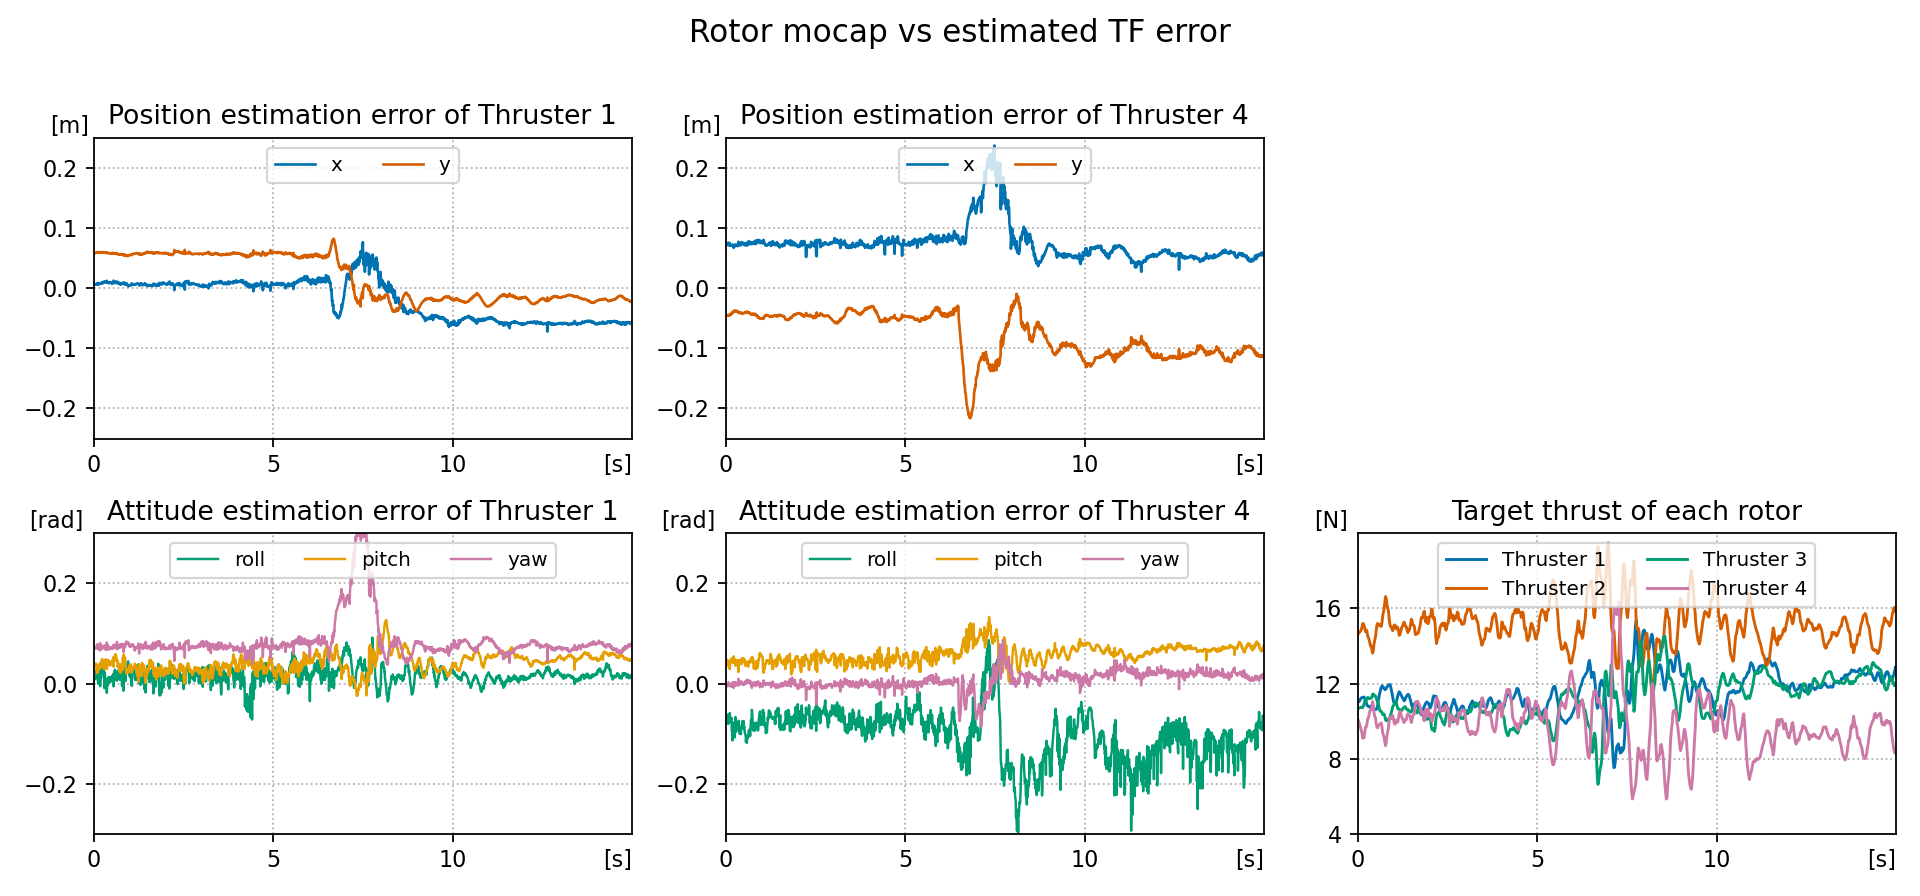
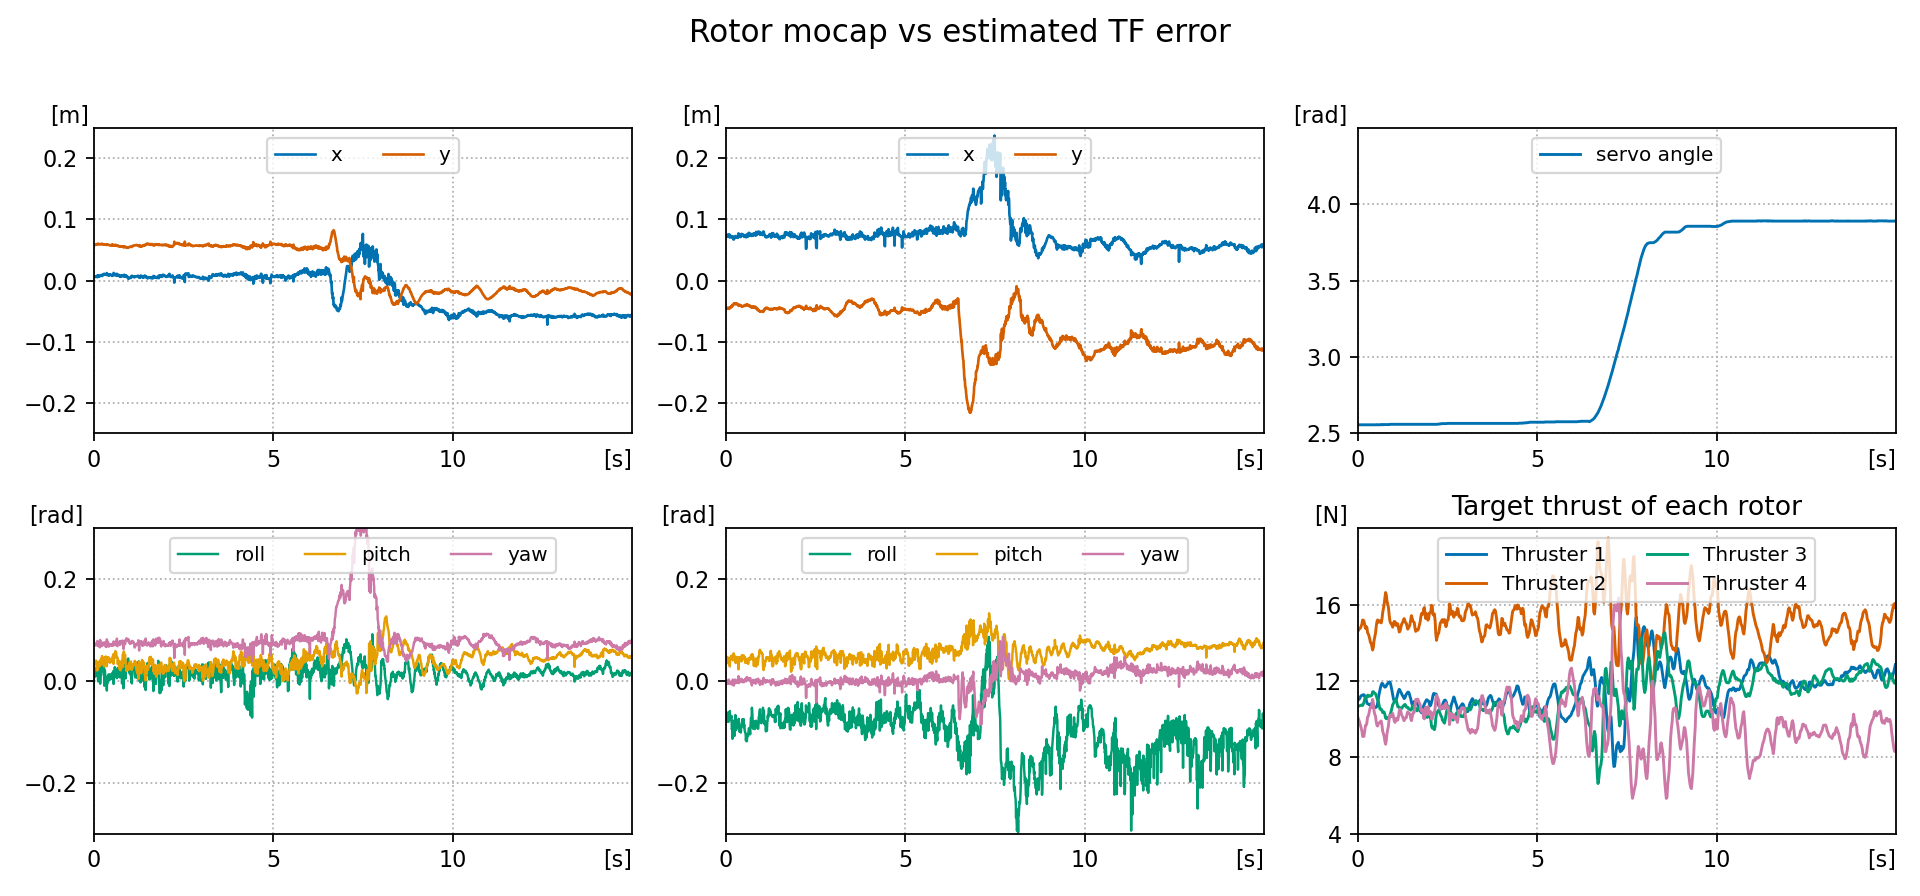
add servo angle plot

diff --git a/robots/hydrus/scripts/plot/plot_rotor_mocap_estimation_error.py b/robots/hydrus/scripts/plot/plot_rotor_mocap_estimation_error.py
@@ -24,6 +24,8 @@ import rosbag
 MOCAP_TOPIC_RE = re.compile(r"^/(?P<ns>[^/]+)/(?P<rotor>thrust\d+)/mocap/pose$")
 DEFAULT_WINDOW_START_SECONDS = 35.59
 DEFAULT_WINDOW_END_SECONDS = 47.86
+DEFAULT_SERVO_INDICES = (12,)
+SERVO_TICKS_PER_REV = 2047.0 * 2.0
 
 
 @dataclass
@@ -414,6 +416,40 @@ def collect_base_thrust_series(bag_path, command_topic, window_start, window_end
     return series
 
 
+def init_servo_series(servo_indices):
+    series = {"time": []}
+    for servo_index in servo_indices:
+        series[int(servo_index)] = []
+    return series
+
+
+def collect_servo_series(bag_path, servo_topic, servo_indices, window_start, window_end):
+    servo_indices = [int(idx) for idx in servo_indices]
+    series = init_servo_series(servo_indices)
+
+    with rosbag.Bag(bag_path, "r") as bag:
+        for _, msg, bag_time in bag.read_messages(topics=[servo_topic]):
+            sample_time = extract_stamp(msg, bag_time.to_sec())
+            if sample_time < window_start:
+                continue
+            if sample_time > window_end:
+                break
+
+            servo_map = {int(servo.index): float(servo.angle) for servo in getattr(msg, "servos", [])}
+            if not servo_map:
+                continue
+
+            series["time"].append(sample_time)
+            for servo_index in servo_indices:
+                series[servo_index].append(servo_map.get(servo_index, float("nan")))
+
+    return series
+
+
+def servo_ticks_to_rad(values):
+    return np.asarray(values, dtype=float) * (2.0 * math.pi / SERVO_TICKS_PER_REV) - (3.14 / 2.0)
+
+
 def summarize_series(series):
     lines = []
     for rotor_name in sorted(series.keys(), key=rotor_sort_key):
@@ -525,6 +561,45 @@ def print_base_thrust_summary(series, command_topic):
         print("{:<8s} {:>7d} {:>12.5f} {:>12.5f} {:>12.5f} {:>12.5f}".format(*row))
 
 
+def summarize_servo_series(series):
+    if not series or not series.get("time"):
+        return []
+
+    lines = []
+    for servo_index in sorted(key for key in series.keys() if key != "time"):
+        values = np.asarray(series[servo_index], dtype=float)
+        finite_values = values[np.isfinite(values)]
+        if len(finite_values) == 0:
+            continue
+        lines.append(
+            (
+                servo_index,
+                len(finite_values),
+                float(np.mean(finite_values)),
+                math.sqrt(float(np.mean(finite_values ** 2))),
+                float(np.min(finite_values)),
+                float(np.max(finite_values)),
+            )
+        )
+    return lines
+
+
+def print_servo_summary(series, servo_topic):
+    summary = summarize_servo_series(series)
+    if not summary:
+        print("No servo state samples were found on '{}'.".format(servo_topic))
+        return
+
+    print("Servo angle summary from {}:".format(servo_topic))
+    print(
+        "{:<8s} {:>7s} {:>12s} {:>12s} {:>12s} {:>12s}".format(
+            "index", "samples", "mean[tick]", "rms[tick]", "min[tick]", "max[tick]"
+        )
+    )
+    for row in summary:
+        print("{:<8d} {:>7d} {:>12.5f} {:>12.5f} {:>12.5f} {:>12.5f}".format(*row))
+
+
 def write_csv(csv_path, series):
     with open(csv_path, "w", newline="") as f:
         writer = csv.writer(f)
@@ -572,7 +647,7 @@ def write_csv(csv_path, series):
                 )
 
 
-def plot_series(series, base_thrust_series, output_path, x_axis_duration):
+def plot_series(series, base_thrust_series, servo_series, output_path, x_axis_duration):
     rotor_names = sorted(series.keys(), key=rotor_sort_key)
     if not rotor_names:
         raise RuntimeError("Nothing to plot.")
@@ -605,7 +680,7 @@ def plot_series(series, base_thrust_series, output_path, x_axis_duration):
             "thrust3": "Thruster 3",
             "thrust4": "Thruster 4",
         }
-        ax_xy.set_title("Position estimation error of {}".format(plot_rotor_name.get(rotor_name, rotor_name)))
+        # ax_xy.set_title("Position estimation error of {}".format(plot_rotor_name.get(rotor_name, rotor_name)))
         ax_xy.set_xlim(0.0, x_axis_duration)
         ax_xy.set_ylim(-0.25, 0.25)
         ax_xy.set_xticks(x_ticks)
@@ -619,7 +694,7 @@ def plot_series(series, base_thrust_series, output_path, x_axis_duration):
         ax_att.plot(t, values["pitch_rad"], label="pitch", color="#E69F00", linewidth=1.1)
         ax_att.plot(t, values["yaw_rad"], label="yaw", color="#CC79A7", linewidth=1.1)
         # ax_att.plot(t, values["angle_rad"], label="angle norm", color="#d62728", linewidth=1.4, linestyle="--")
-        ax_att.set_title("Attitude estimation error of {}".format(plot_rotor_name.get(rotor_name, rotor_name)))
+        # ax_att.set_title("Attitude estimation error of {}".format(plot_rotor_name.get(rotor_name, rotor_name)))
         ax_att.set_xlim(0.0, x_axis_duration)
         ax_att.set_ylim(-0.3, 0.3)
         ax_att.set_xticks(x_ticks)
@@ -629,7 +704,37 @@ def plot_series(series, base_thrust_series, output_path, x_axis_duration):
         ax_att.grid(True, linestyle=":", linewidth=0.8)
         ax_att.legend(loc="upper center", ncol=3, fontsize=9)
 
-    axes[0][-1].axis("off")
+    ax_servo = axes[0][-1]
+    if servo_series and servo_series.get("time"):
+        servo_indices = sorted(key for key in servo_series.keys() if key != "time")
+        servo_t = np.asarray(servo_series["time"], dtype=float)
+        servo_t = servo_t - servo_t[0]
+        colors = ["#0072B2", "#D55E00", "#009E73", "#CC79A7", "#E69F00", "#56B4E9", "#000000", "#F0E442"]
+        for idx, servo_index in enumerate(servo_indices):
+            ax_servo.plot(
+                servo_t,
+                servo_ticks_to_rad(servo_series[servo_index]),
+                # label="servo[{}]".format(servo_index),
+                label="servo angle",
+                color=colors[idx % len(colors)],
+                linewidth=1.3,
+            )
+
+        # ax_servo.set_title("Servo state angle")
+        ax_servo.set_xlim(0.0, x_axis_duration)
+        ax_servo.set_ylim(2.5, 4.5)
+        ax_servo.set_xticks(x_ticks)
+        ax_servo.set_yticks([2.5, 3.0, 3.5, 4.0])
+        ax_servo.text(1.0, -0.05, "[s]", transform=ax_servo.transAxes, ha="right", va="top", fontsize=10)
+        ax_servo.text(-0.12, 1.0, "[rad]", transform=ax_servo.transAxes, ha="left", va="bottom", fontsize=10)
+        ax_servo.grid(True, linestyle=":", linewidth=0.8)
+        ax_servo.legend(loc="upper center", ncol=min(2, len(servo_indices)), fontsize=9)
+    else:
+        # ax_servo.set_title("Servo state angle")
+        ax_servo.text(0.5, 0.5, "No servo state samples", ha="center", va="center", transform=ax_servo.transAxes)
+        ax_servo.set_xticks([])
+        ax_servo.set_yticks([])
+        ax_servo.grid(False)
 
     ax_thrust = axes[1][-1]
     if base_thrust_series and base_thrust_series.get("time"):
@@ -724,6 +829,17 @@ def parse_args():
         "--command-topic",
         help="FourAxisCommand topic for base thrust overlay. Default: /<namespace>/four_axes/command",
     )
+    parser.add_argument(
+        "--servo-topic",
+        help="ServoStates topic for servo-angle overlay. Default: /<namespace>/servo/states",
+    )
+    parser.add_argument(
+        "--servo-indices",
+        nargs="+",
+        type=int,
+        default=list(DEFAULT_SERVO_INDICES),
+        help="ServoState indices to overlay from the ServoStates topic",
+    )
     parser.add_argument("--tf-topic", default="/tf", help="Dynamic TF topic")
     parser.add_argument("--tf-static-topic", default="/tf_static", help="Static TF topic")
     parser.add_argument(
@@ -743,6 +859,7 @@ def main():
     bag_path = os.path.abspath(args.bag)
     bag_stem = os.path.splitext(os.path.basename(bag_path))[0]
     command_topic = args.command_topic or "/{}/four_axes/command".format(normalize_name(args.namespace))
+    servo_topic = args.servo_topic or "/{}/servo/states".format(normalize_name(args.namespace))
 
     _, window_start, window_end = find_fixed_window(
         bag_path=bag_path,
@@ -769,6 +886,13 @@ def main():
         window_start=window_start,
         window_end=window_end,
     )
+    servo_series = collect_servo_series(
+        bag_path=bag_path,
+        servo_topic=servo_topic,
+        servo_indices=args.servo_indices,
+        window_start=window_start,
+        window_end=window_end,
+    )
 
     if not any(len(values["time"]) > 0 for values in series.values()):
         raise RuntimeError(
@@ -780,17 +904,20 @@ def main():
     plot_series(
         series,
         base_thrust_series,
+        servo_series,
         output_path,
         x_axis_duration=args.window_end_seconds - args.window_start_seconds,
     )
     print_summary(series, skipped_missing_tf, skipped_bad_pose)
     print_base_thrust_summary(base_thrust_series, command_topic)
+    print_servo_summary(servo_series, servo_topic)
     print(
         "Plotting fixed bag window [{:.3f}, {:.3f}] seconds (absolute stamps [{:.3f}, {:.3f}]).".format(
             args.window_start_seconds, args.window_end_seconds, window_start, window_end
         )
     )
     print("Command topic: {}".format(command_topic))
+    print("Servo topic: {} (indices: {})".format(servo_topic, ", ".join(str(idx) for idx in args.servo_indices)))
     print("Saved plot to {}".format(output_path))
 
     if args.csv:
